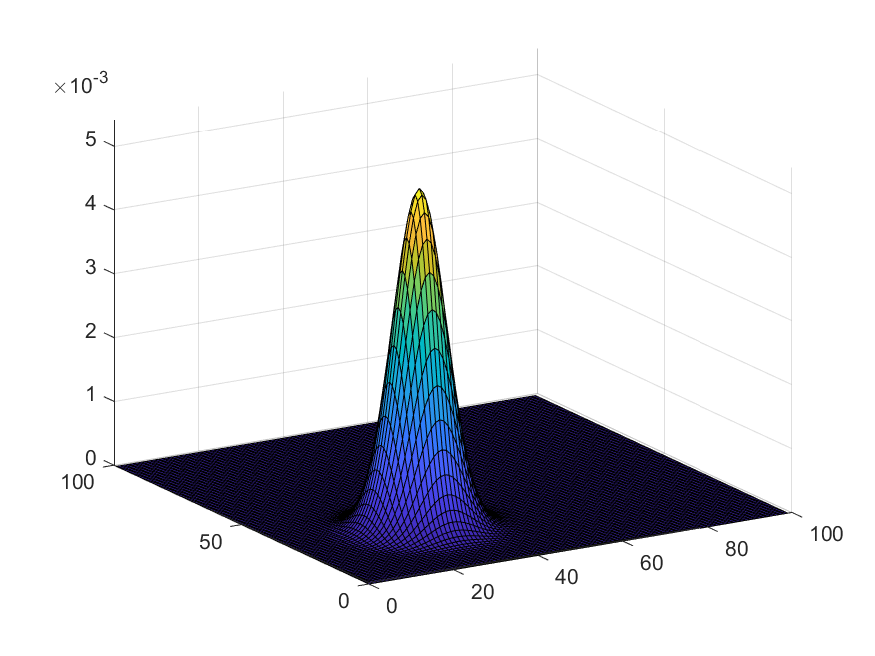
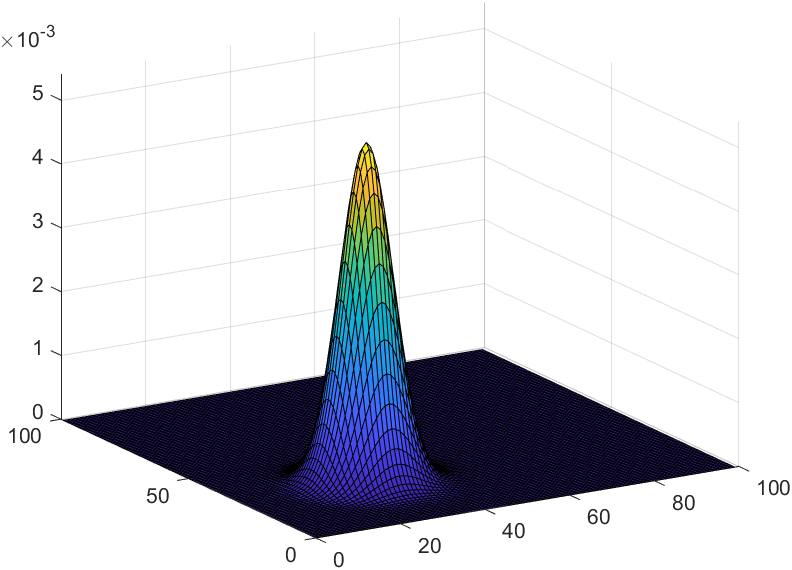
new plots

diff --git a/code/bhaskar/slidePlot.m b/code/bhaskar/slidePlot.m
@@ -69,7 +69,8 @@ for i = 1:size(peaks,1)
     view([-31.06163 21.91969]); 
     zlim([0 0.0054]); 
     % colormap('gray');
-    saveas(gcf, strcat('plot3d_',num2str(i),'.png')); 
+    % saveas(gcf, strcat('plot3d_',num2str(i),'.png')); 
+    exportgraphics(gca,strcat('plot3d_',num2str(i),'.png')); 
 
     figure(2);
     % set(gcf,'color','w'); 
@@ -78,8 +79,9 @@ for i = 1:size(peaks,1)
     colormap('gray');
     axis tight
     axis equal
-    saveas(gcf, strcat('plot2d_',num2str(i),'.png')); 
-    
+    set(gca,'visible','off')
+    % saveas(gcf, strcat('plot2d_',num2str(i),'.png')); 
+    exportgraphics(gca,strcat('plot2d_',num2str(i),'.png'))
 end
 
 % m=[30 30];
